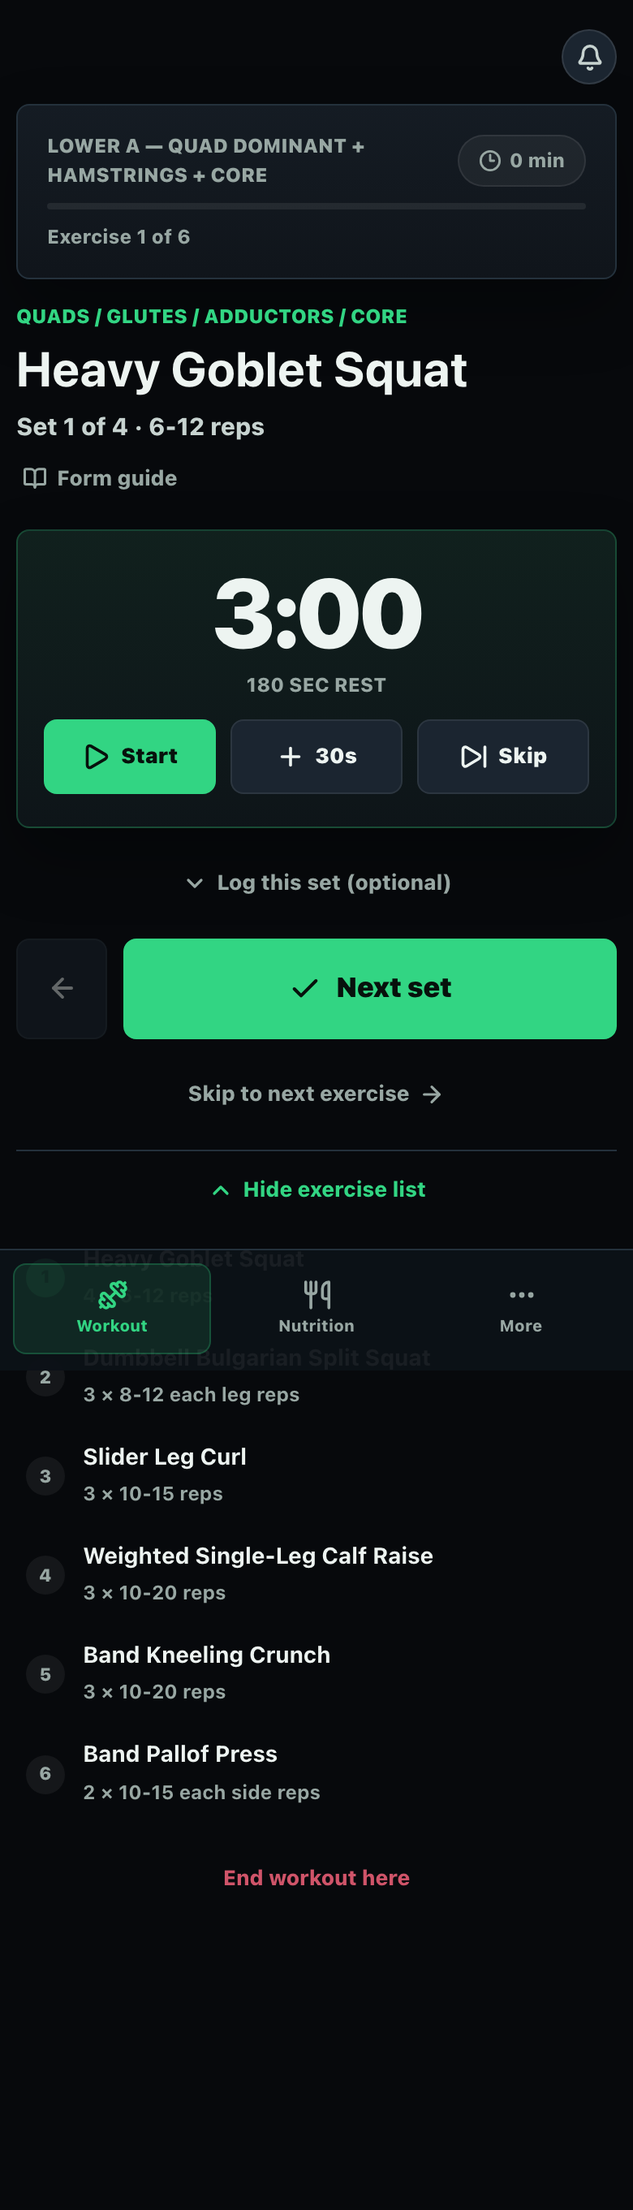
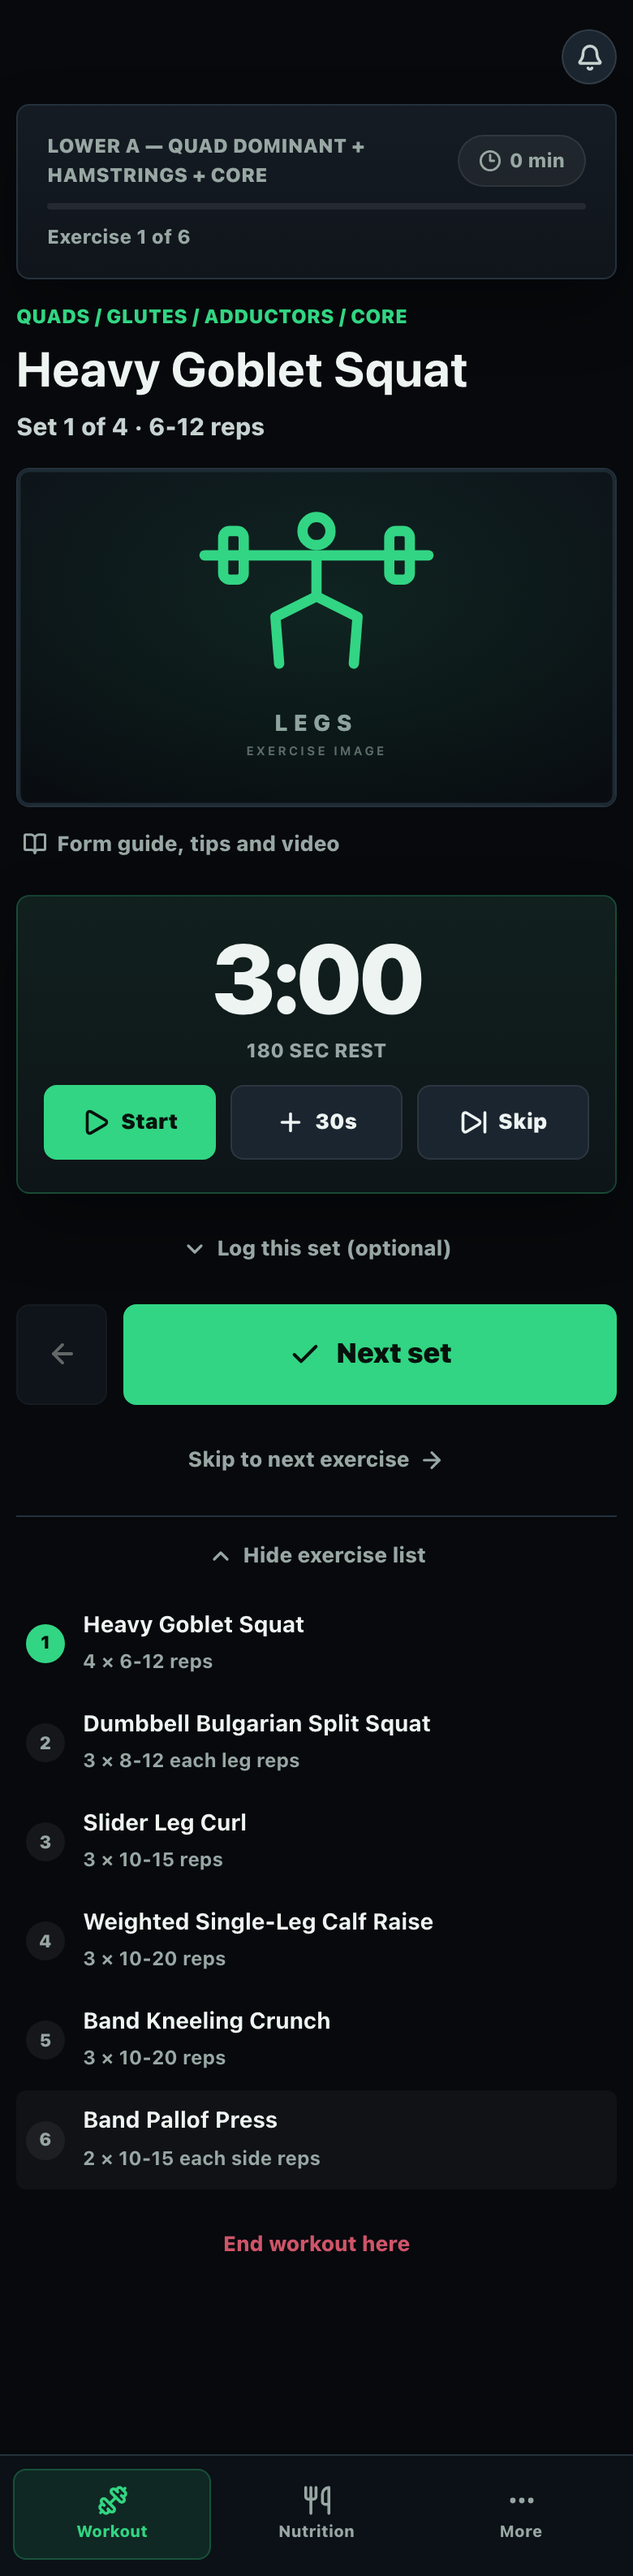
feat: show the exercise picture on the workout screen
The image was only reachable by opening the form guide. It is the one piece
of "information" on that screen that is actually doing work, so it is now
inline under the exercise name.

- New LiveExerciseImage: just the picture, with a broken-image fallback to
  the category placeholder and then to hiding the figure entirely. Tapping
  it opens the full form guide (video, tips, muscles), which is also still
  reachable from the text link below.
- Honours the existing Settings > Workout Display > "show exercise images"
  toggle, so it can be turned off without losing the form-guide link.

Note: 80 of the 156 library exercises have a real demonstration image; the
other 76 fall back to a generic muscle-group silhouette. Those can be filled
in per exercise from Exercise Library > form guide > media editor.

Verified: 13 image checks (four consecutive exercises decode and render,
alt text present, tap-to-open-guide, the display toggle, no console errors)
plus the existing 46-check suite, build, and both verification scripts.
Screenshots: artifacts/verification/simple-12..14.

diff --git a/src/pages/TodayWorkout.tsx b/src/pages/TodayWorkout.tsx
@@ -13,6 +13,7 @@ import {
 } from 'lucide-react'
 import { useEffect, useMemo, useState } from 'react'
 import { ExerciseDetailModal } from '../components/ExerciseDetailModal'
+import { LiveExerciseImage } from '../components/LiveExerciseImage'
 import { LiveWorkoutHeader } from '../components/LiveWorkoutHeader'
 import { OptionalSetLog, type OptionalSetLogValues } from '../components/OptionalSetLog'
 import { RemainingExercises } from '../components/RemainingExercises'
@@ -42,8 +43,10 @@ import { getNutritionGuidance } from '../utils/postWorkoutNutrition'
 import {
   findLibraryExerciseForWorkout,
   getEffectiveExerciseLibrary,
+  getWorkoutDisplaySettings,
   getWorkoutForDate,
 } from '../utils/settingsUtils'
+import type { WorkoutDisplaySettings } from '../utils/mediaUtils'
 import { useAuth } from '../context/AuthContext'
 import * as workoutService from '../services/workoutService'
 import type { PageId } from '../types/navigation'
@@ -75,6 +78,10 @@ export function TodayWorkout({ onNavigate }: TodayWorkoutProps) {
   )
   const exerciseLibrary = useMemo(
     () => getEffectiveExerciseLibrary() as LibraryExercise[],
+    [],
+  )
+  const displaySettings = useMemo(
+    () => getWorkoutDisplaySettings() as WorkoutDisplaySettings,
     [],
   )
   const nutrition = useMemo(
@@ -297,6 +304,7 @@ export function TodayWorkout({ onNavigate }: TodayWorkoutProps) {
   if (screen === 'active' && session) {
     return (
       <LiveWorkoutScreen
+        displaySettings={displaySettings}
         exerciseLibrary={exerciseLibrary}
         finishError={finishError}
         nowTs={nowTs}
@@ -504,6 +512,7 @@ function PreWorkoutScreen({
 // ---------------------------------------------------------------------------
 
 interface LiveWorkoutScreenProps {
+  displaySettings: WorkoutDisplaySettings
   exerciseLibrary: LibraryExercise[]
   finishError: string | null
   nowTs: number
@@ -522,6 +531,7 @@ const EMPTY_LOG: OptionalSetLogValues = {
 }
 
 function LiveWorkoutScreen({
+  displaySettings,
   exerciseLibrary,
   finishError,
   nowTs,
@@ -602,6 +612,13 @@ function LiveWorkoutScreen({
           {getExerciseTarget(exercise)}
         </p>
 
+        {formGuideExercise && displaySettings.showExerciseImages !== false ? (
+          <LiveExerciseImage
+            exercise={formGuideExercise}
+            onOpenFormGuide={() => setShowFormGuide(true)}
+          />
+        ) : null}
+
         {formGuideExercise ? (
           <button
             className="live-exercise__guide"
@@ -609,7 +626,7 @@ function LiveWorkoutScreen({
             type="button"
           >
             <BookOpen size={15} strokeWidth={2.4} aria-hidden="true" />
-            Form guide
+            Form guide, tips and video
           </button>
         ) : null}
       </article>

diff --git a/src/components/LiveExerciseImage.tsx b/src/components/LiveExerciseImage.tsx
@@ -1,0 +1,70 @@
+import { useEffect, useState } from 'react'
+import type { LibraryExercise } from '../data/exerciseLibrary'
+import {
+  DEFAULT_EXERCISE_IMAGE,
+  getExerciseImage,
+  getExerciseImageAlt,
+} from '../utils/mediaUtils'
+
+interface LiveExerciseImageProps {
+  exercise: LibraryExercise
+  /** Tapping the image opens the full form guide. */
+  onOpenFormGuide?: () => void
+}
+
+/**
+ * The exercise picture, shown inline while training so you can see the
+ * movement without opening anything. Deliberately just the image: the video,
+ * tips and muscle detail stay in the form-guide modal.
+ */
+export function LiveExerciseImage({
+  exercise,
+  onOpenFormGuide,
+}: LiveExerciseImageProps) {
+  const source = getExerciseImage(exercise)
+  const [src, setSrc] = useState(source)
+  const [hidden, setHidden] = useState(false)
+
+  // A new exercise gets a fresh attempt at its own image.
+  useEffect(() => {
+    setSrc(source)
+    setHidden(false)
+  }, [source])
+
+  if (hidden) {
+    return null
+  }
+
+  const image = (
+    <img
+      alt={getExerciseImageAlt(exercise)}
+      className="live-exercise__image"
+      loading="lazy"
+      onError={() => {
+        // Broken remote image -> local placeholder; if that fails too, drop
+        // the figure rather than leaving a broken-image box on screen.
+        if (src !== DEFAULT_EXERCISE_IMAGE) {
+          setSrc(DEFAULT_EXERCISE_IMAGE)
+        } else {
+          setHidden(true)
+        }
+      }}
+      src={src}
+    />
+  )
+
+  if (!onOpenFormGuide) {
+    return <figure className="live-exercise__figure">{image}</figure>
+  }
+
+  return (
+    <button
+      aria-label={`Open the form guide for ${exercise.name}`}
+      className="live-exercise__figure live-exercise__figure--button"
+      onClick={onOpenFormGuide}
+      type="button"
+    >
+      {image}
+    </button>
+  )
+}

diff --git a/src/App.css b/src/App.css
@@ -6493,6 +6493,41 @@ body {
   width: auto;
 }
 
+/* The movement itself, inline. Tapping it opens the full form guide. */
+.live-exercise__figure {
+  background: rgba(255, 255, 255, 0.04);
+  border: 1px solid var(--line);
+  border-radius: 8px;
+  display: block;
+  margin: 10px 0 2px;
+  overflow: hidden;
+  padding: 0;
+  width: 100%;
+}
+
+.live-exercise__figure--button {
+  cursor: pointer;
+}
+
+.live-exercise__figure--button:focus-visible {
+  border-color: var(--green);
+  outline: none;
+}
+
+.live-exercise__image {
+  display: block;
+  height: auto;
+  max-height: 210px;
+  object-fit: contain;
+  width: 100%;
+}
+
+@media (min-width: 620px) {
+  .live-exercise__image {
+    max-height: 260px;
+  }
+}
+
 /* The countdown is the focal point of the screen while training. */
 .workout-page--live .rest-timer {
   gap: 12px;
